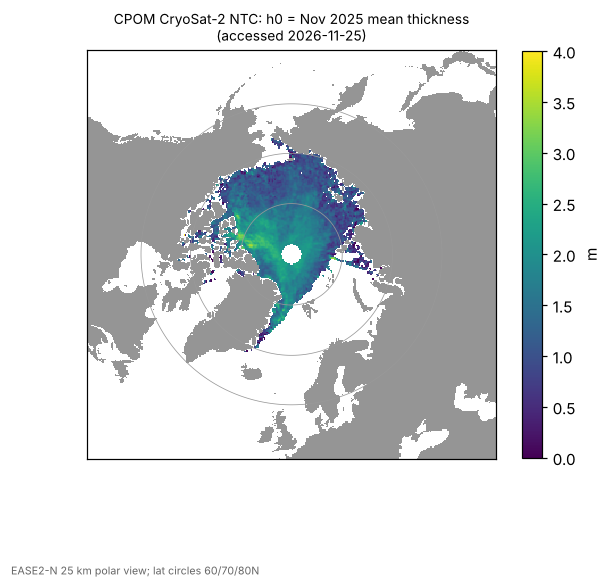
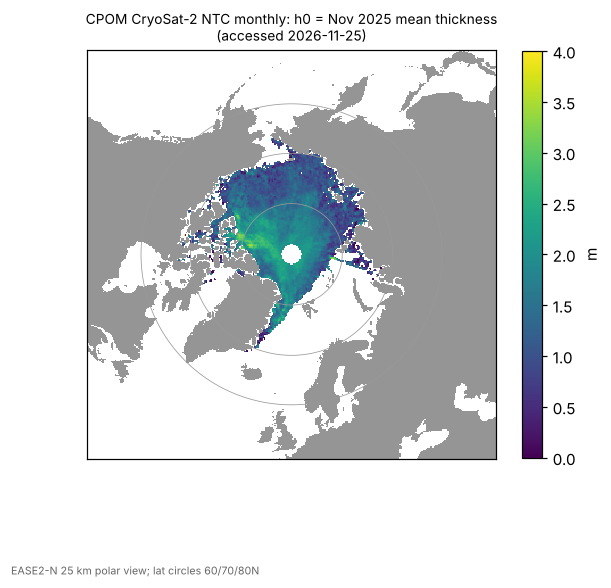
P3: thickness ensemble inputs (CPOM 2011-2026, Petty 2018-2024), disagreement layer
Claude-Session: https://claude.ai/code/session_01QJXv4bJ5bHXVYWzA2mFamV

Changed region(s): [[0.1555, 0.0, 0.8085, 0.0612]]

diff --git a/pipeline/thickness.py b/pipeline/thickness.py
@@ -88,12 +88,21 @@ def build_cpom():
     from pipeline.fetch import thickness_cpom as fc
     fc.fetch()
     out = []
-    for w in fc.WINTERS:
-        pn, pa = fc.path_for(f"{w}11"), fc.path_for(f"{w + 1}04")
+    nrt = fc.http.RAW / "cpom" / fc.NRT_2026
+    for w in list(fc.WINTERS) + [2026]:
+        partial = w == 2026
+        pn = nrt if partial else fc.path_for(f"{w}11")
+        pa = fc.path_for(f"{w + 1}04")
         if not pn.exists():
             continue
         h0, u0, c0 = _cpom_month(pn)
         ha = _cpom_month(pa)[0] if pa.exists() else np.full_like(h0, np.nan)
+        extra = {}
+        if partial:
+            extra = dict(partial=1, h0_month="2026-11-02..2026-11-15 (NRT 14-day product)", h_apr_month="not yet observed",
+                         source="CPOM CryoSat-2 Arctic sea ice thickness, NRT 14-day 5 km sparse grid v001 (initial orbit, "
+                                "not final quality; UCL/CPOM, ESA)",
+                         nrt_file=fc.NRT_2026)
         attrs = dict(
             source="CPOM CryoSat-2 Arctic sea ice thickness, NTC monthly, 5 km sparse grid v001 (UCL/CPOM, ESA)",
             source_url="https://www.cpom.ucl.ac.uk/seaice/download.php?region=Arctic",
@@ -101,7 +110,9 @@ def build_cpom():
             regrid=f"bin mean of 5 km points per 25 km cell, cells with < {MIN_PTS_CPOM} points set NaN; "
                    "negative cell means clipped to 0 (see qc_* attrs)",
             snow="Warren-99 climatology (halved on first-year ice), as in the CPOM product",
-            caveats="CryoSat-2 pole hole north of ~88N is NaN; radar thickness over thin/young ice is noisy in November")
+            caveats="CryoSat-2 pole hole north of ~88N is NaN; radar thickness over thin/young ice is noisy in November",
+            partial=0)
+        attrs.update(extra)
         va = dict(h0=dict(units="m", long_name="start-of-winter sea ice thickness (November mean)"),
                   h0_unc=dict(units="m", long_name="mean within-cell standard deviation of thickness (CPOM thk_stdev)",
                               comment="CPOM provides no retrieval-uncertainty variable; thk_stdev is the spread of "
@@ -279,7 +290,12 @@ def figures(cpom_w, petty_w):
     if cpom_w:
         w = max(cpom_w)
         with xr.open_dataset(INTERIM / f"thick_cpom_{w}.nc") as ds:
-            _plot(ds.h0.values, f"CPOM CryoSat-2 NTC: h0 = Nov {w} mean thickness\n(accessed {TODAY})",
+            kind = "NRT 14-day, partial season" if ds.attrs.get("partial") else "NTC monthly"
+            _plot(ds.h0.values, f"CPOM CryoSat-2 {kind}: h0 = {ds.attrs['h0_month']} mean thickness\n"
+                                f"(accessed {TODAY})", FIGS / f"thick_cpom_{w}.png")
+        w = max(x for x in cpom_w if x < 2026)
+        with xr.open_dataset(INTERIM / f"thick_cpom_{w}.nc") as ds:
+            _plot(ds.h0.values, f"CPOM CryoSat-2 NTC monthly: h0 = Nov {w} mean thickness\n(accessed {TODAY})",
                   FIGS / "thick_cpom.png")
     if petty_w:
         w = max(petty_w)

diff --git a/pipeline/fetch/thickness_cpom.py b/pipeline/fetch/thickness_cpom.py
@@ -20,6 +20,16 @@ WINTERS = range(2011, 2026)  # W = 2011..2025
 TAR_2026 = "cpom_ntc_arco_sea_ice_thickness_2026_5km_sparse_grid.tar.gz"
 
 
+# Current season (W = 2026): NRT 14-day product covering 2-15 Nov 2026 (latest listed on the portal 25 Nov 2026).
+NRT_2026 = "cpom_nrt_arco_sea_ice_thickness_14days_02112026_15112026_5km_sparse_grid_v001.nc"
+
+
+def fetch_nrt():
+    url = f"{BASE}?file={NRT_2026}&region=arco"
+    p = http.get(url, f"cpom/{NRT_2026}")
+    return p, {"name": p.name, "url": url, "sha256": http.sha256(p), "bytes": p.stat().st_size}
+
+
 def url_for(ym):
     return f"{BASE}?file={quote(ym[:4] + '/' + NAME.format(ym=ym), safe='')}&type=ntc&region=arco"
 
@@ -52,6 +62,10 @@ def fetch():
                 missing.append(f"{ym}: {e}")
                 continue
         files.append({"name": p.name, "url": url_for(ym), "sha256": http.sha256(p), "bytes": p.stat().st_size})
+    try:
+        files.append(fetch_nrt()[1])
+    except Exception as e:
+        missing.append(f"NRT 2026: {e}")
     tp = http.RAW / "cpom" / TAR_2026
     if tp.exists():
         files.append({"name": tp.name, "url": f"{BASE}?file=2026%2F{TAR_2026}&type=ntc&region=arco",
@@ -69,7 +83,8 @@ def fetch():
         missing=missing,
         notes=("Brief's EOCIS URL pattern https://www.cpom.ucl.ac.uk/eocis/seaice/data/EOCIS-SEAICE-L3C-SITHICK-CS2-5KM-YYYYMM-fv1.0.nc "
                "returns 404; /eocis/ tree absent. Cryo-TEMPO page redirects to cryosat.mssl.ucl.ac.uk (not allow-listed). "
-               "Used CPOM seaice portal NTC monthly files (Warren-99 snow climatology, halved on FYI)."),
+               "Used CPOM seaice portal NTC monthly files (Warren-99 snow climatology, halved on FYI). "
+               "Winter 2026 (current, partial): NRT 14-day product 2-15 Nov 2026 (initial orbits, not final quality)."),
     )
     return files, missing
 

diff --git a/eval/tests/test_thickness.py b/eval/tests/test_thickness.py
@@ -24,7 +24,7 @@ def test_contract_shape_and_vars(path):
         assert "lat" in ds.coords and "lon" in ds.coords
         assert ds.h0.dtype == np.float32
         assert "h0_choice" in ds.attrs and "November" in ds.attrs["h0_choice"]
-        if "_awi_" not in path.name:
+        if "_awi_" not in path.name and not ds.attrs.get("partial"):
             assert "h_apr" in ds and ds.h_apr.shape == (360, 360)
 
 
@@ -39,7 +39,7 @@ def test_h0_physically_plausible(path):
         assert 0.3 < np.median(v) < 3.0  # November Arctic mean thickness is O(1 m)
         u = ds.h0_unc.values
         assert np.nanmin(u) >= 0
-        if "h_apr" in ds:
+        if "h_apr" in ds and np.isfinite(ds.h_apr.values).any():
             a = ds.h_apr.values
             assert np.nanmin(a) >= 0 and np.nanmax(a) <= 8
             # growth season: April median exceeds November median
@@ -53,7 +53,8 @@ def test_ice_where_expected():
     i, j = (int(round(float(k))) for k in grid.lonlat_to_ij(-60.0, 85.0))
     for p in FILES:
         with xr.open_dataset(p) as ds:
-            assert ds.h0.values[i - 2:i + 3, j - 2:j + 3].mean() > 0.5, p.name
+            box = ds.h0.values[i - 3:i + 4, j - 3:j + 4]  # NRT 14-day fields have orbit gaps
+            assert np.isfinite(box).sum() >= 5 and np.nanmean(box) > 0.5, p.name
 
 
 def test_disagreement_nonnegative():

diff --git a/ASSUMPTIONS.md b/ASSUMPTIONS.md
@@ -30,3 +30,12 @@ Every guess, constant and threshold, with where it came from. Newest at the bott
 
 ## Scale (pipeline/scale.py)
 - 1,000,000 km2/yr target, 8 MWh/km2, ~$6bn/yr at scale: Ocean Visions roadmap page. Ice-safe window 90 days (January-March, ARIA PDF). Drone throughput is not public: a user slider labelled ASSUMPTION.
+
+## Thickness
+- h0 (start-of-winter thickness) = November mean of winter W; h_apr = April mean of W+1. October not used (thin-ice retrievals biased thin, brief section 4). Stored in each file's `h0_choice` attr.
+- CPOM: the brief's EOCIS URL (www.cpom.ucl.ac.uk/eocis/...) is 404; used the CPOM sea-ice portal NTC monthly CryoSat-2 product (5 km sparse points, EPSG:3411, v001, Warren-99 snow halved on FYI), https://www.cpom.ucl.ac.uk/seaice/download.php?region=Arctic. Regrid: bin mean of 5 km points per 25 km cell, cells with < 3 points dropped. No licence stated on the portal or in the files: confirm with CPOM before redistribution.
+- CPOM has no retrieval-uncertainty variable: `h0_unc` = mean of `thk_stdev` (spread of measurements per 5 km point), a variability proxy that excludes systematic snow error.
+- Petty IS2SMGPSIT-V1 (CC-BY-4.0): h0 uses `ice_volume_per_grid_cell_area` (= cell-mean ice_thickness / SIC, masked SIC < 0.15), i.e. ice-only thickness comparable with CPOM, not the cell-mean `ice_thickness`. `h0_unc` = GP s.d. scaled by 1/SIC. Read via HTTP Range, every 3rd day (days 1,4,...,28) to stay under the 1 GB rule; monthly mean = mean of those days (NaN if < 50% valid). Nearest neighbour EPSG:3411 25 km -> EASE2 25 km.
+- QC (both products): negative 25 km means clipped to 0; means > 8 m set NaN as coast/land artefacts (counts in `qc_*` attrs; CPOM 0-5 cells per month).
+- AWI CS2SMOS not fetched: ftp.awi.de resets TLS on 443 (FTP-only server), the proxy carries HTTPS only, spaces.awi.de is refused (403), ESA route needs EO Sign-In on smos-diss.eo.esa.int (not allow-listed). Substitute for the current season: thick_cpom_2026.nc from CPOM's NRT 14-day product (2-15 Nov 2026; initial orbits, not final quality; attr partial=1; h_apr all NaN). Being 14 days, it has CryoSat-2 orbit gaps (~9,300 valid cells vs ~11,000-12,000 for a full November).
+- DTU thickness skipped by owner decision.

diff --git a/RESULTS.md b/RESULTS.md
@@ -1,3 +1,15 @@
 # Results
 
 Every evaluation number, with the command that produced it.
+
+## Thickness disagreement
+Command: `python -m pipeline.thickness` (writes data/interim/thick_disagreement.nc; 25 Nov 2026).
+Per cell, mean over common winters of |h0_a - h0_b| (h0 = November mean thickness); summary over cells with >= 1 common winter.
+
+| Pair | Winters | Cells | Median abs diff | 90th pct | Mean signed diff (a - b) |
+|---|---|---|---|---|---|
+| CPOM - Petty | 2018-2024 (7) | 14,654 | 0.511 m | 0.879 m | +0.349 m (CPOM thicker) |
+| CPOM - AWI | none: AWI unreachable | - | - | - | - |
+| Petty - AWI | none: AWI unreachable | - | - | - | - |
+
+Largest disagreement: north of Greenland / Canadian Archipelago coast and the Greenland Sea export edge (map: eval/figs/thick_disagreement_cpom_petty.png).
